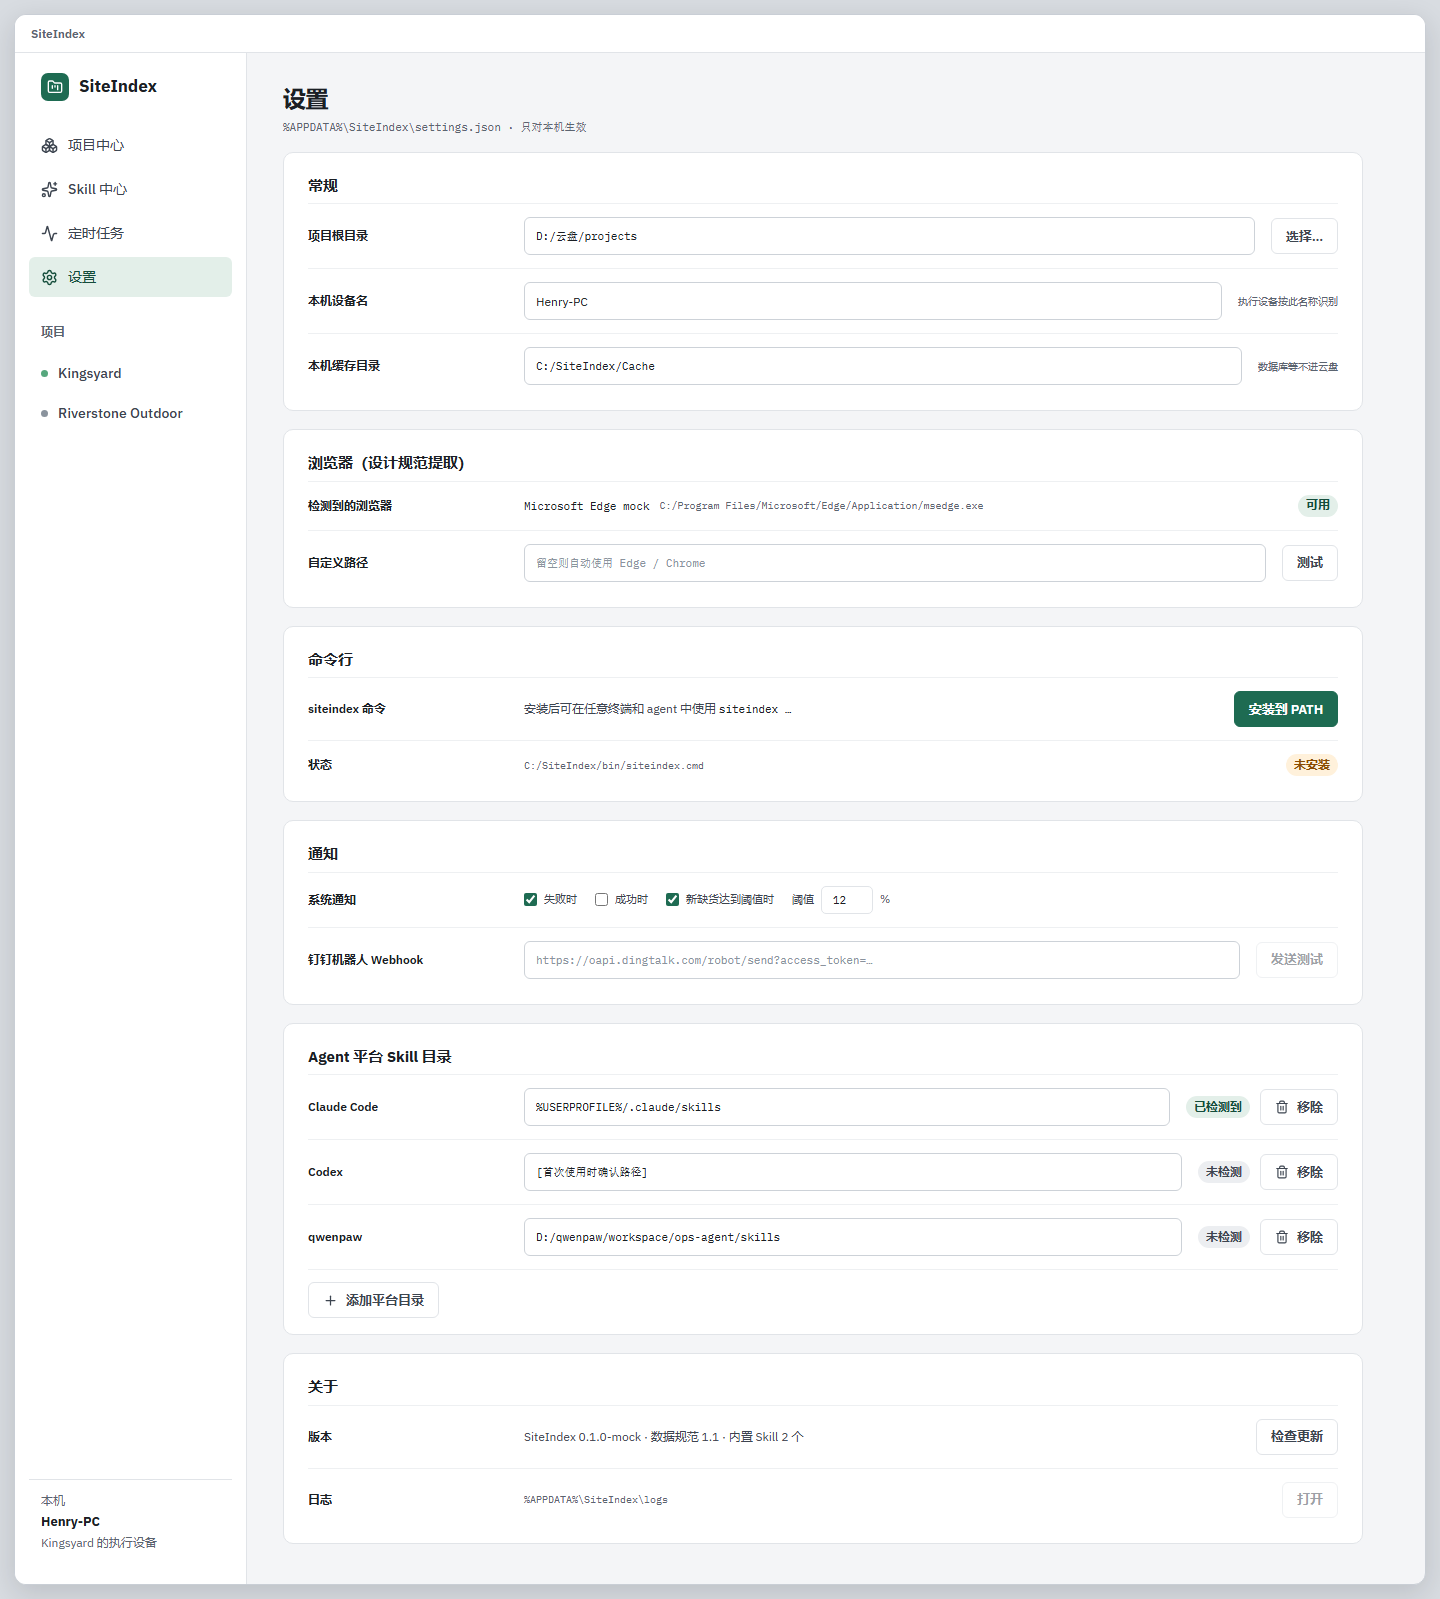
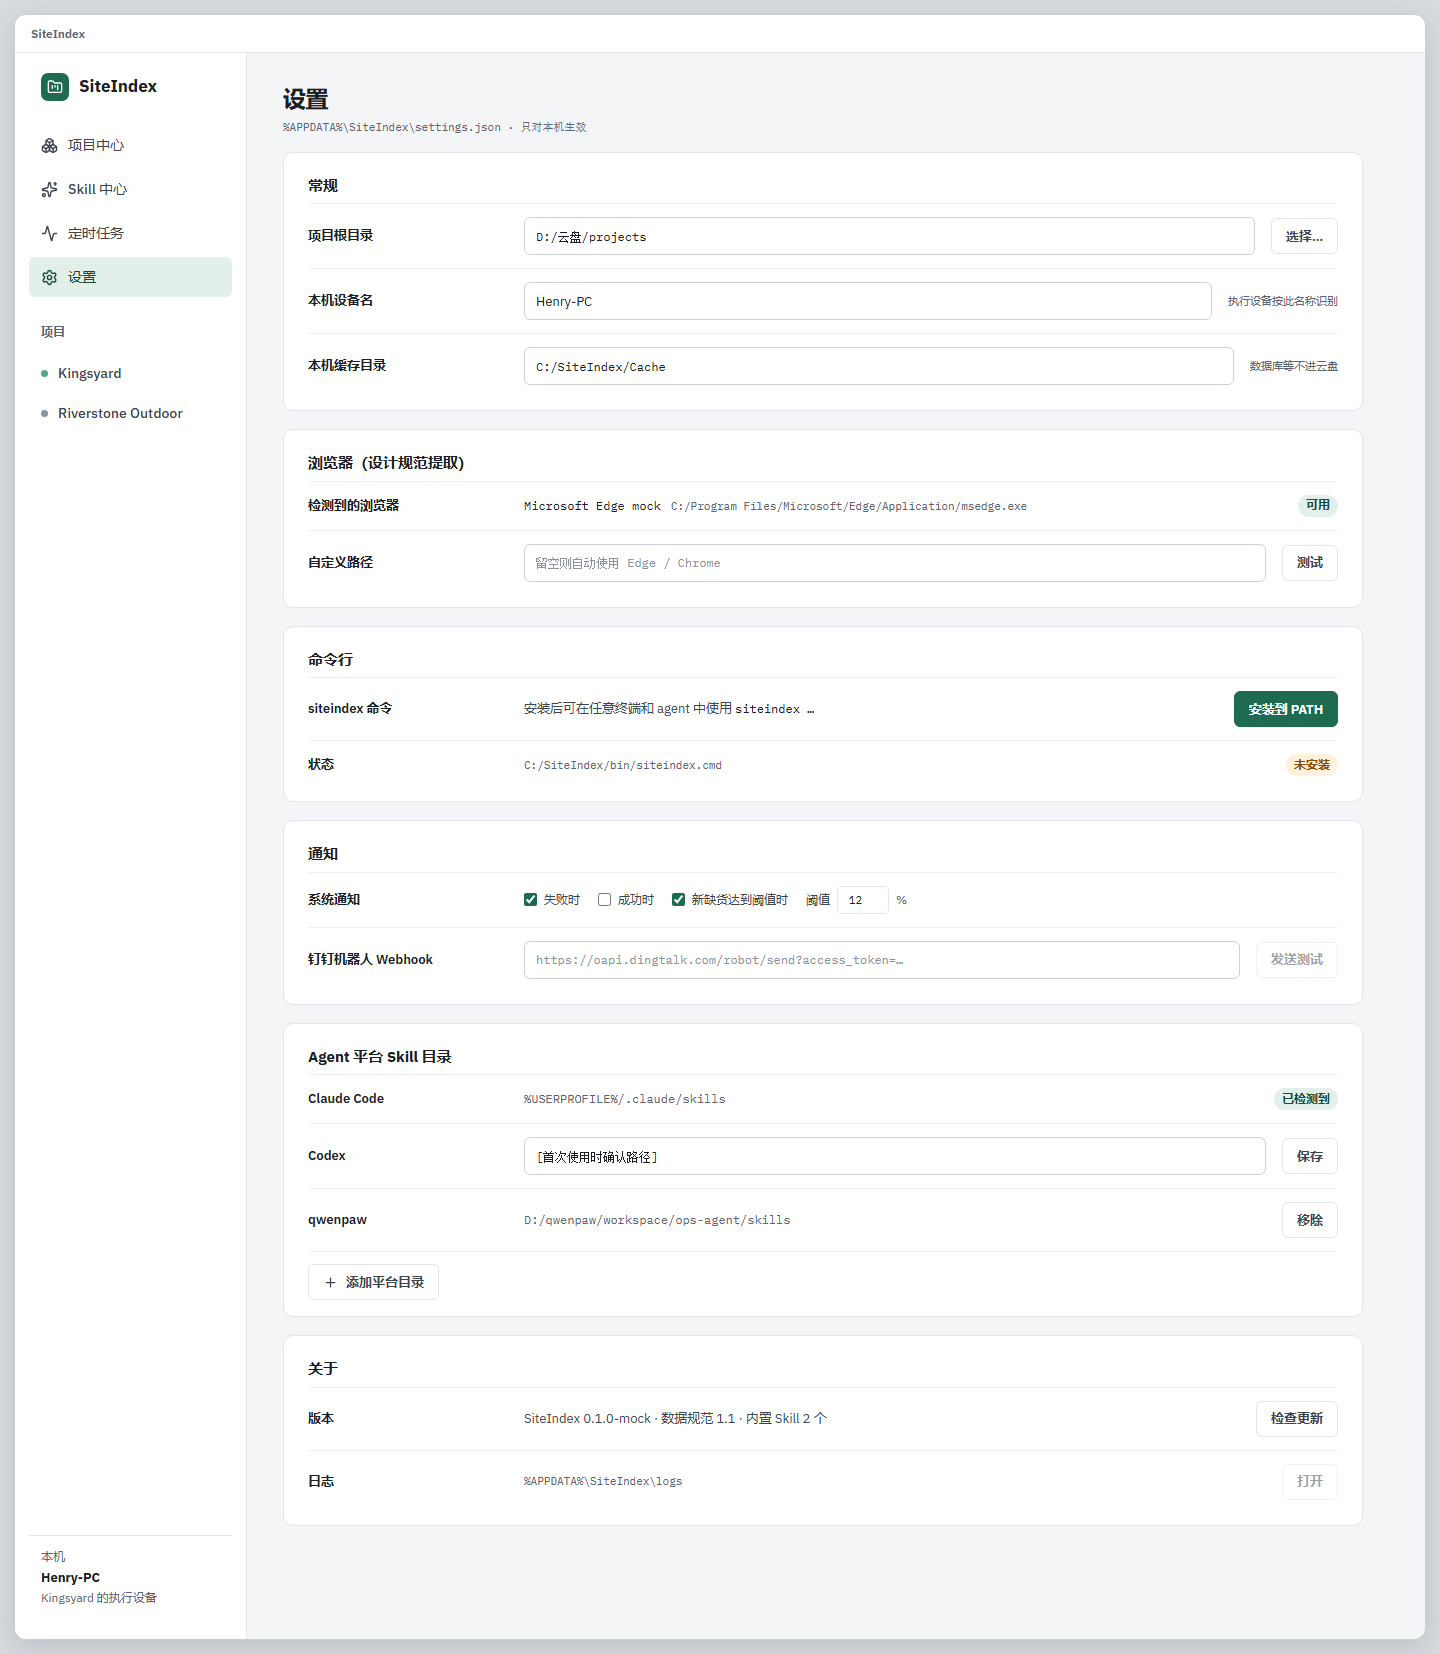
fix(ui): align settings skill directory rows with design

diff --git a/packages/ui/src/pages/AppSettingsPage.tsx b/packages/ui/src/pages/AppSettingsPage.tsx
@@ -1,6 +1,6 @@
 import { useEffect, useState } from "react";
 import { useQuery, useQueryClient } from "@tanstack/react-query";
-import { Plus, Trash2 } from "lucide-react";
+import { Plus } from "lucide-react";
 import type { AppSettings, SkillPlatform } from "@siteindex/shared";
 import { api } from "../api";
 import { Button, Chip } from "../components";
@@ -104,6 +104,10 @@ export function AppSettingsPage() {
     void saveSettings({ skill_platforms: skillPlatforms });
   };
 
+  const savePlatform = () => {
+    if (draft) void saveSettings({ skill_platforms: draft.skill_platforms });
+  };
+
   if (settingsQuery.isError) return <div className="si-page-error" role="alert">软件设置加载失败。<button type="button" onClick={() => void settingsQuery.refetch()}>重试</button></div>;
   if (settingsQuery.isLoading || !draft) return <div className="si-page-loading" role="status">正在加载软件设置…</div>;
 
@@ -185,14 +189,17 @@ export function AppSettingsPage() {
 
       <section className="si-app-settings-card">
         <h2>Agent 平台 Skill 目录</h2>
-        {draft.skill_platforms.map((platform, index) => <div className="si-app-setting-row" key={platform.id}>
-          <strong>{platform.name}</strong>
-          <input aria-label={`${platform.name} Skill 目录`} className="si-setting-input si-setting-mono" value={platform.dir} onChange={(event) => setDraft({ ...draft, skill_platforms: draft.skill_platforms.map((item, itemIndex) => itemIndex === index ? { ...item, dir: event.target.value, detected: false } : item) })} onBlur={() => void saveSettings({ skill_platforms: draft.skill_platforms })} />
-          <div className="si-platform-actions">
-            <Chip tone={platform.detected ? "ok" : "neutral"}>{platform.detected ? "已检测到" : "未检测"}</Chip>
-            <Button aria-label={`移除 ${platform.name}`} icon={<Trash2 size={14} />} onClick={() => savePlatforms(draft.skill_platforms.filter((_, itemIndex) => itemIndex !== index))}>移除</Button>
-          </div>
-        </div>)}
+        {draft.skill_platforms.map((platform, index) => {
+          const detectedPlatform = platform.id === "claude-code" && platform.detected;
+          const editablePlatform = platform.id === "codex" || platform.id.startsWith("custom-");
+          return <div className="si-app-setting-row" key={platform.id}>
+            <strong>{platform.name}</strong>
+            {detectedPlatform || platform.id === "qwenpaw" ? <code className="si-setting-mono si-platform-path">{platform.dir}</code> : <input aria-label={`${platform.name} Skill 目录`} className="si-setting-input si-setting-mono" value={platform.dir} onChange={(event) => setDraft({ ...draft, skill_platforms: draft.skill_platforms.map((item, itemIndex) => itemIndex === index ? { ...item, dir: event.target.value, detected: false } : item) })} onBlur={editablePlatform && platform.id !== "codex" ? () => void saveSettings({ skill_platforms: draft.skill_platforms }) : undefined} />}
+            <div className="si-platform-actions">
+              {detectedPlatform ? <Chip tone="ok">已检测到</Chip> : editablePlatform && platform.id === "codex" ? <Button onClick={savePlatform}>保存</Button> : <Button aria-label={`移除 ${platform.name}`} onClick={() => savePlatforms(draft.skill_platforms.filter((_, itemIndex) => itemIndex !== index))}>移除</Button>}
+            </div>
+          </div>;
+        })}
         <div className="si-platform-add-row"><Button icon={<Plus size={15} />} onClick={() => savePlatforms([...draft.skill_platforms, { id: `custom-${Date.now()}`, name: "新平台", dir: "", detected: false }])}>添加平台目录</Button></div>
       </section>
 

diff --git a/packages/ui/src/pages/app-settings/page.css b/packages/ui/src/pages/app-settings/page.css
@@ -5,19 +5,20 @@
 .si-app-settings-card { display: grid; min-width: 0; padding: 8px 24px 12px; border: 1px solid var(--color-line); border-radius: 10px; background: var(--color-surface); }
 .si-app-settings-card h2 { margin: 14px 0 6px; color: var(--color-ink); font-size: 15px; font-weight: 700; }
 .si-app-setting-row { display: grid; min-width: 0; grid-template-columns: 200px minmax(0,1fr) auto; align-items: center; gap: 12px 16px; padding: 13px 0; border-top: 1px solid var(--color-line-soft); }
-.si-app-setting-row > label, .si-app-setting-row > strong { color: var(--color-ink); font-size: 12px; font-weight: 600; }
-.si-app-setting-row > span:not(.si-chip) { min-width: 0; color: var(--color-ink-2); font-size: 12px; }
-.si-app-setting-row > span > code { color: var(--color-ink); font: 11px var(--font-mono); }
-.si-app-setting-row .si-setting-hint { color: var(--color-muted) !important; font-size: 10px !important; }
-.si-setting-input { width: 100%; min-width: 0; height: 38px; padding: 0 11px; border: 1px solid #CDD2D8; border-radius: 6px; outline: 0; background: var(--color-surface); color: var(--color-ink); font: 12px var(--font-sans); }
+.si-app-setting-row > label, .si-app-setting-row > strong { color: var(--color-ink); font-size: 13px; font-weight: 600; }
+.si-app-setting-row > span:not(.si-chip) { min-width: 0; color: var(--color-ink-2); font-size: 13px; }
+.si-app-setting-row > span > code { color: var(--color-ink); font: 12px var(--font-mono); }
+.si-app-setting-row .si-setting-hint { color: var(--color-muted) !important; font-size: 11px !important; }
+.si-setting-input { width: 100%; min-width: 0; height: 38px; padding: 0 11px; border: 1px solid #CDD2D8; border-radius: 6px; outline: 0; background: var(--color-surface); color: var(--color-ink); font: 13px var(--font-sans); }
 .si-setting-input:focus { border-color: var(--color-brand); box-shadow: 0 0 0 2px rgba(30,107,82,.12); }
 .si-setting-input::placeholder { color: var(--color-faint); }
-.si-setting-mono { font-family: var(--font-mono); font-size: 11px; }
+.si-setting-mono { font-family: var(--font-mono); font-size: 12px; }
 .si-setting-path { display: inline-block; margin-left: 6px; overflow-wrap: anywhere; }
+.si-platform-path { min-width: 0; color: var(--color-muted); overflow-wrap: anywhere; }
 .si-setting-error { color: var(--color-danger) !important; font-size: 11px !important; }
 .si-browser-detected > span:nth-child(2) { display: flex; min-width: 0; flex-wrap: wrap; align-items: center; gap: 4px; }
 .si-notify-options { display: flex; flex-wrap: wrap; align-items: center; gap: 12px 18px; }
-.si-notify-options label { display: inline-flex; align-items: center; gap: 7px; color: var(--color-ink-2); font-size: 11px; font-weight: 400; }
+.si-notify-options label { display: inline-flex; align-items: center; gap: 7px; color: var(--color-ink-2); font-size: 12px; font-weight: 400; }
 .si-notify-options input[type=checkbox] { accent-color: var(--color-brand); }
 .si-threshold-field input { width: 52px; height: 28px; padding: 0 6px; border: 1px solid var(--color-line); border-radius: 5px; color: var(--color-ink); font: 11px var(--font-mono); text-align: center; }
 .si-platform-actions { display: flex; align-items: center; gap: 10px; }
